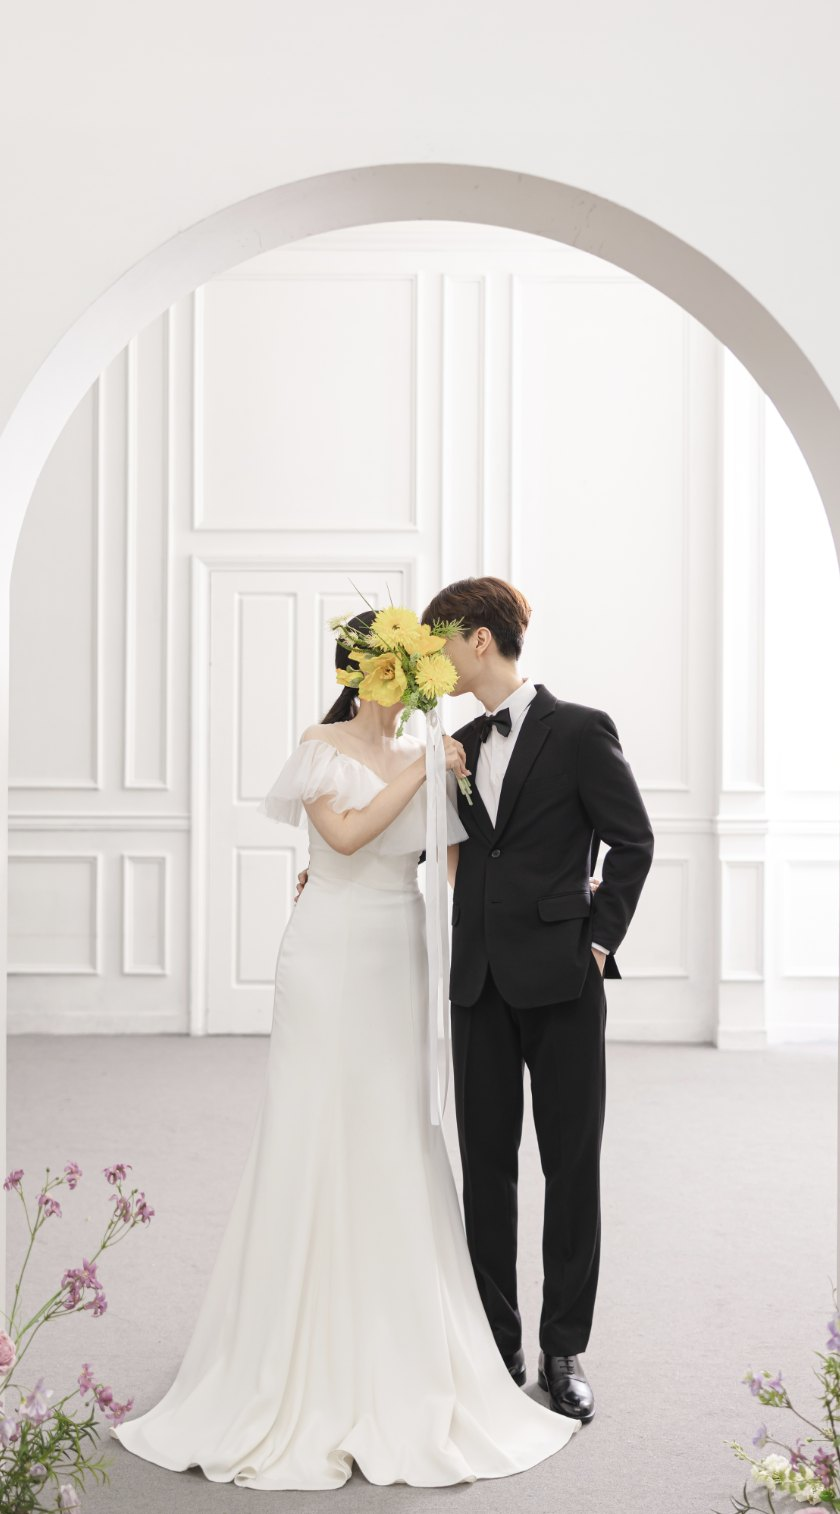
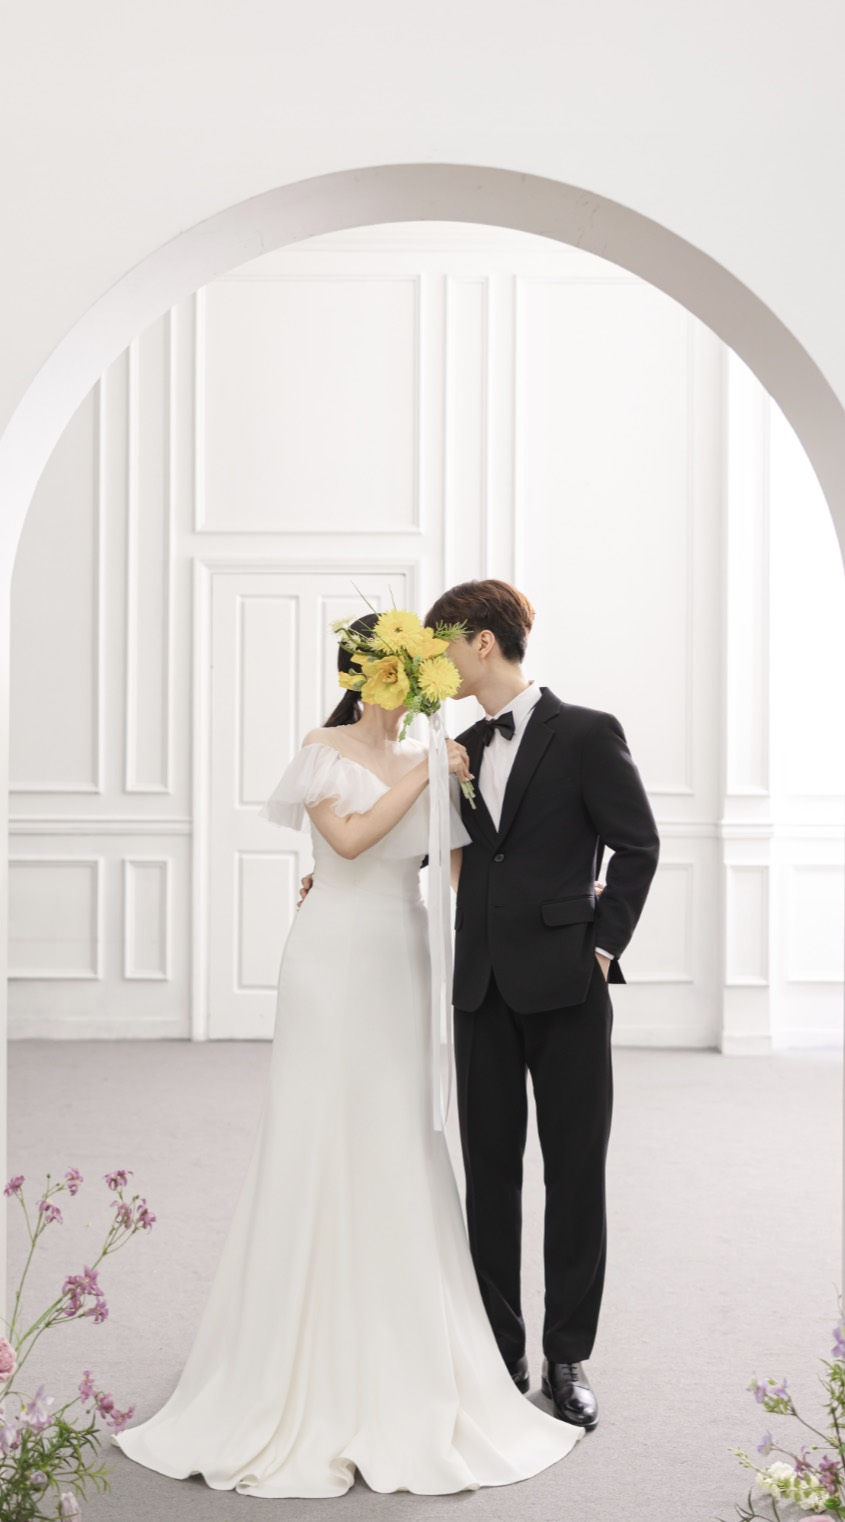
표지를 대문사진 최종 보정본으로 교체 (아치 중앙 정렬)
같은 아치 컷의 더 깨끗한 보정본입니다. 원본 1014x1522 에서 아치 바깥
다리가 x=35 / x=975 로 중심이 505 (이미지 중심 507) 이라, 좌우 대칭으로
845x1522 (0.083~0.917) 잘라내면 아치가 그대로 가운데에 옵니다.

카카오톡 미리보기(og.jpg)도 새 표지로 다시 만들었습니다.
표지/og 파일명이 그대로라 캐시 버전을 ?v=5 -> ?v=6 으로 올렸습니다.

확인: 실제 430x820 화면 캡처에서 아치 다리가 수직인 구간(y=220~320)의
왼쪽 끝 x=35 / 오른쪽 끝 x=464 -> 중심 249.5 vs 화면 중심 250 (오차 0.5px),
좌우 여백 35 / 36px 대칭. 캐시 없는 프로필에서 전체 자원 로드 실패 0건,
?v=6 누락 0건, 갤러리 22장 정상.

Assisted-by: Claude Code (Opus 5)

diff --git a/index.html b/index.html
@@ -10,7 +10,7 @@
 <meta property="og:title" content="이수영 ♥ 이정은 결혼합니다">
 <meta property="og:description" content="2026년 12월 12일 토요일 오후 4시, 세인트메리엘 1층 메리엘홀">
 <meta property="og:url" content="https://suyoung-lee.github.io/wedding/">
-<meta property="og:image" content="https://suyoung-lee.github.io/wedding/assets/og.jpg?v=5">
+<meta property="og:image" content="https://suyoung-lee.github.io/wedding/assets/og.jpg?v=6">
 <meta name="description" content="2026년 12월 12일 토요일 오후 4시, 세인트메리엘 1층 메리엘홀">
 <meta name="theme-color" content="#fbfaf7">
 
@@ -283,7 +283,7 @@
   <!-- ══════════ 표지 ══════════ -->
   <header class="cover">
     <div class="photo noSave">
-      <img src="assets/cover.jpg?v=5" alt="신랑 이수영, 신부 이정은" draggable="false">
+      <img src="assets/cover.jpg?v=6" alt="신랑 이수영, 신부 이정은" draggable="false">
     </div>
     <div class="fade"></div>
     <div class="frame"></div>
@@ -354,28 +354,28 @@
   <section>
     <p class="label">Gallery</p>
     <div class="grid collapsed noSave" id="grid">
-      <button class="ph wide" type="button" data-full="assets/g01.jpg?v=5" aria-label="웨딩 사진 1번, 크게 보기"><img src="assets/wide.jpg?v=5" alt="" loading="lazy"></button>
-      <button class="ph" type="button" data-full="assets/g02.jpg?v=5" aria-label="웨딩 사진 2번, 크게 보기"><img src="assets/t02.jpg?v=5" alt="" loading="lazy"></button>
-      <button class="ph" type="button" data-full="assets/g03.jpg?v=5" aria-label="웨딩 사진 3번, 크게 보기"><img src="assets/t03.jpg?v=5" alt="" loading="lazy"></button>
-      <button class="ph" type="button" data-full="assets/g04.jpg?v=5" aria-label="웨딩 사진 4번, 크게 보기"><img src="assets/t04.jpg?v=5" alt="" loading="lazy"></button>
-      <button class="ph" type="button" data-full="assets/g05.jpg?v=5" aria-label="웨딩 사진 5번, 크게 보기"><img src="assets/t05.jpg?v=5" alt="" loading="lazy"></button>
-      <button class="ph" type="button" data-full="assets/g06.jpg?v=5" aria-label="웨딩 사진 6번, 크게 보기"><img src="assets/t06.jpg?v=5" alt="" loading="lazy"></button>
-      <button class="ph" type="button" data-full="assets/g07.jpg?v=5" aria-label="웨딩 사진 7번, 크게 보기"><img src="assets/t07.jpg?v=5" alt="" loading="lazy"></button>
-      <button class="ph" type="button" data-full="assets/g08.jpg?v=5" aria-label="웨딩 사진 8번, 크게 보기"><img src="assets/t08.jpg?v=5" alt="" loading="lazy"></button>
-      <button class="ph" type="button" data-full="assets/g09.jpg?v=5" aria-label="웨딩 사진 9번, 크게 보기"><img src="assets/t09.jpg?v=5" alt="" loading="lazy"></button>
-      <button class="ph" type="button" data-full="assets/g10.jpg?v=5" aria-label="웨딩 사진 10번, 크게 보기"><img src="assets/t10.jpg?v=5" alt="" loading="lazy"></button>
-      <button class="ph" type="button" data-full="assets/g11.jpg?v=5" aria-label="웨딩 사진 11번, 크게 보기"><img src="assets/t11.jpg?v=5" alt="" loading="lazy"></button>
-      <button class="ph" type="button" data-full="assets/g12.jpg?v=5" aria-label="웨딩 사진 12번, 크게 보기"><img src="assets/t12.jpg?v=5" alt="" loading="lazy"></button>
-      <button class="ph" type="button" data-full="assets/g13.jpg?v=5" aria-label="웨딩 사진 13번, 크게 보기"><img src="assets/t13.jpg?v=5" alt="" loading="lazy"></button>
-      <button class="ph" type="button" data-full="assets/g14.jpg?v=5" aria-label="웨딩 사진 14번, 크게 보기"><img src="assets/t14.jpg?v=5" alt="" loading="lazy"></button>
-      <button class="ph" type="button" data-full="assets/g15.jpg?v=5" aria-label="웨딩 사진 15번, 크게 보기"><img src="assets/t15.jpg?v=5" alt="" loading="lazy"></button>
-      <button class="ph" type="button" data-full="assets/g16.jpg?v=5" aria-label="웨딩 사진 16번, 크게 보기"><img src="assets/t16.jpg?v=5" alt="" loading="lazy"></button>
-      <button class="ph" type="button" data-full="assets/g17.jpg?v=5" aria-label="웨딩 사진 17번, 크게 보기"><img src="assets/t17.jpg?v=5" alt="" loading="lazy"></button>
-      <button class="ph" type="button" data-full="assets/g18.jpg?v=5" aria-label="웨딩 사진 18번, 크게 보기"><img src="assets/t18.jpg?v=5" alt="" loading="lazy"></button>
-      <button class="ph" type="button" data-full="assets/g19.jpg?v=5" aria-label="웨딩 사진 19번, 크게 보기"><img src="assets/t19.jpg?v=5" alt="" loading="lazy"></button>
-      <button class="ph" type="button" data-full="assets/g20.jpg?v=5" aria-label="웨딩 사진 20번, 크게 보기"><img src="assets/t20.jpg?v=5" alt="" loading="lazy"></button>
-      <button class="ph" type="button" data-full="assets/g21.jpg?v=5" aria-label="웨딩 사진 21번, 크게 보기"><img src="assets/t21.jpg?v=5" alt="" loading="lazy"></button>
-      <button class="ph" type="button" data-full="assets/g22.jpg?v=5" aria-label="웨딩 사진 22번, 크게 보기"><img src="assets/t22.jpg?v=5" alt="" loading="lazy"></button>
+      <button class="ph wide" type="button" data-full="assets/g01.jpg?v=6" aria-label="웨딩 사진 1번, 크게 보기"><img src="assets/wide.jpg?v=6" alt="" loading="lazy"></button>
+      <button class="ph" type="button" data-full="assets/g02.jpg?v=6" aria-label="웨딩 사진 2번, 크게 보기"><img src="assets/t02.jpg?v=6" alt="" loading="lazy"></button>
+      <button class="ph" type="button" data-full="assets/g03.jpg?v=6" aria-label="웨딩 사진 3번, 크게 보기"><img src="assets/t03.jpg?v=6" alt="" loading="lazy"></button>
+      <button class="ph" type="button" data-full="assets/g04.jpg?v=6" aria-label="웨딩 사진 4번, 크게 보기"><img src="assets/t04.jpg?v=6" alt="" loading="lazy"></button>
+      <button class="ph" type="button" data-full="assets/g05.jpg?v=6" aria-label="웨딩 사진 5번, 크게 보기"><img src="assets/t05.jpg?v=6" alt="" loading="lazy"></button>
+      <button class="ph" type="button" data-full="assets/g06.jpg?v=6" aria-label="웨딩 사진 6번, 크게 보기"><img src="assets/t06.jpg?v=6" alt="" loading="lazy"></button>
+      <button class="ph" type="button" data-full="assets/g07.jpg?v=6" aria-label="웨딩 사진 7번, 크게 보기"><img src="assets/t07.jpg?v=6" alt="" loading="lazy"></button>
+      <button class="ph" type="button" data-full="assets/g08.jpg?v=6" aria-label="웨딩 사진 8번, 크게 보기"><img src="assets/t08.jpg?v=6" alt="" loading="lazy"></button>
+      <button class="ph" type="button" data-full="assets/g09.jpg?v=6" aria-label="웨딩 사진 9번, 크게 보기"><img src="assets/t09.jpg?v=6" alt="" loading="lazy"></button>
+      <button class="ph" type="button" data-full="assets/g10.jpg?v=6" aria-label="웨딩 사진 10번, 크게 보기"><img src="assets/t10.jpg?v=6" alt="" loading="lazy"></button>
+      <button class="ph" type="button" data-full="assets/g11.jpg?v=6" aria-label="웨딩 사진 11번, 크게 보기"><img src="assets/t11.jpg?v=6" alt="" loading="lazy"></button>
+      <button class="ph" type="button" data-full="assets/g12.jpg?v=6" aria-label="웨딩 사진 12번, 크게 보기"><img src="assets/t12.jpg?v=6" alt="" loading="lazy"></button>
+      <button class="ph" type="button" data-full="assets/g13.jpg?v=6" aria-label="웨딩 사진 13번, 크게 보기"><img src="assets/t13.jpg?v=6" alt="" loading="lazy"></button>
+      <button class="ph" type="button" data-full="assets/g14.jpg?v=6" aria-label="웨딩 사진 14번, 크게 보기"><img src="assets/t14.jpg?v=6" alt="" loading="lazy"></button>
+      <button class="ph" type="button" data-full="assets/g15.jpg?v=6" aria-label="웨딩 사진 15번, 크게 보기"><img src="assets/t15.jpg?v=6" alt="" loading="lazy"></button>
+      <button class="ph" type="button" data-full="assets/g16.jpg?v=6" aria-label="웨딩 사진 16번, 크게 보기"><img src="assets/t16.jpg?v=6" alt="" loading="lazy"></button>
+      <button class="ph" type="button" data-full="assets/g17.jpg?v=6" aria-label="웨딩 사진 17번, 크게 보기"><img src="assets/t17.jpg?v=6" alt="" loading="lazy"></button>
+      <button class="ph" type="button" data-full="assets/g18.jpg?v=6" aria-label="웨딩 사진 18번, 크게 보기"><img src="assets/t18.jpg?v=6" alt="" loading="lazy"></button>
+      <button class="ph" type="button" data-full="assets/g19.jpg?v=6" aria-label="웨딩 사진 19번, 크게 보기"><img src="assets/t19.jpg?v=6" alt="" loading="lazy"></button>
+      <button class="ph" type="button" data-full="assets/g20.jpg?v=6" aria-label="웨딩 사진 20번, 크게 보기"><img src="assets/t20.jpg?v=6" alt="" loading="lazy"></button>
+      <button class="ph" type="button" data-full="assets/g21.jpg?v=6" aria-label="웨딩 사진 21번, 크게 보기"><img src="assets/t21.jpg?v=6" alt="" loading="lazy"></button>
+      <button class="ph" type="button" data-full="assets/g22.jpg?v=6" aria-label="웨딩 사진 22번, 크게 보기"><img src="assets/t22.jpg?v=6" alt="" loading="lazy"></button>
     </div>
     <button class="more" type="button" id="more">사진 더보기<span class="chev" aria-hidden="true"></span></button>
   </section>
@@ -388,8 +388,8 @@
     <h2>세인트메리엘</h2>
     <p class="sub">1층 메리엘홀</p>
 
-    <a class="mapWrap noSave" href="assets/map-full.png?v=5" target="_blank" rel="noopener">
-      <img src="assets/map.png?v=5" alt="세인트메리엘 약도" loading="lazy" draggable="false">
+    <a class="mapWrap noSave" href="assets/map-full.png?v=6" target="_blank" rel="noopener">
+      <img src="assets/map.png?v=6" alt="세인트메리엘 약도" loading="lazy" draggable="false">
     </a>
     <p class="mapHint">약도를 누르면 크게 볼 수 있습니다</p>
 

diff --git a/build_assets.py b/build_assets.py
@@ -18,8 +18,8 @@ OUT = "assets"
 # index.html 의 이미지 URL 뒤 ?v=N 캐시 버전. 파일명을 그대로 두고 사진 내용만
 # 바꾸면 이미 청첩장을 열어본 브라우저가 캐시된 옛 사진을 계속 보여줍니다
 # (썸네일만 바뀌고 뷰어는 옛 사진이 뜨는 식). 사진을 갈아끼울 때마다 올리세요.
-#   sed -i '' 's/?v=[0-9]*/?v=6/g' index.html
-ASSET_V = 5
+#   sed -i '' 's/?v=[0-9]*/?v=7/g' index.html
+ASSET_V = 6
 os.makedirs(OUT, exist_ok=True)
 
 A = lambda n: os.path.join(SRC, f"KakaoTalk_20260909_203020487{n}.png")
@@ -112,8 +112,11 @@ PORTRAIT = (2, 3)
 # 거울과 인물의 균형을 맞춰 줍니다 — 그래서 예외에 넣지 않았습니다.
 NO_RECENTER = {2, 4}
 
-COVER = os.path.join(SRC, "KakaoTalk_20260909_232050635.png")   # 표지 — 아치 컷 보정본 (신부측 추천)
-COVER_CROP = (0.08, 0.0, 0.92, 1.0)          # (좌, 상, 우, 하) 비율. 보정본은 이미 타이트해서 좌우만 살짝
+COVER = N("COVER_대문사진")                   # 표지 — 아치 컷 최종 보정본
+# (좌, 상, 우, 하) 비율. 좌우를 대칭으로 깎아 아치가 화면 한가운데 오게 합니다.
+# 원본 1014x1522 에서 아치 바깥다리가 x=35 / x=975 (중심 505 = 이미지 중심 507)
+# 이라 대칭 크롭이면 그대로 가운데입니다. 폭은 화면 비율에 가깝게 845 로.
+COVER_CROP = (0.083, 0.0, 0.917, 1.0)
 MAP_PDF = os.path.join(SRC, "[세인트 메리엘] 청첩장 약도 (1).pdf")
 
 
